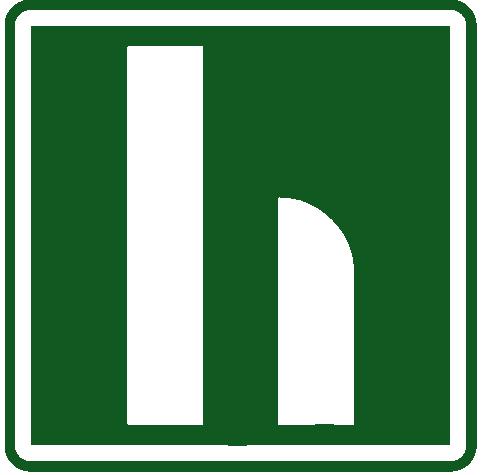
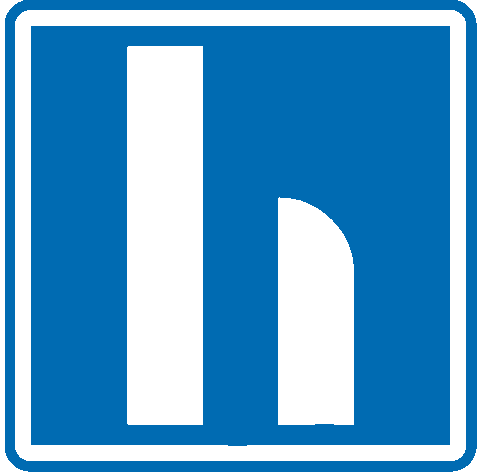
sticky navbar

diff --git a/src/components/Navbar.jsx b/src/components/Navbar.jsx
@@ -1,4 +1,4 @@
-import React, { useState } from 'react';
+import React, { useState, useEffect } from 'react';
 import { Link } from 'react-router-dom';
 import { AppBar, Toolbar, Typography, Box, Button, Menu, MenuItem, IconButton, Drawer, List, ListItem, ListItemText, Divider, useTheme } from '@mui/material';
 import CarRepairIcon from '@mui/icons-material/CarRepair';
@@ -7,13 +7,15 @@ import MenuIcon from '@mui/icons-material/Menu';
 import LoginIcon from '@mui/icons-material/Login';
 import { getAssetPath } from '../utils/assetUtils';
 
-// Gebruik de asset utility functie voor het logo pad
-const logo = getAssetPath('/assets/logo-hofmans.png');
+// Gebruik de asset utility functie voor de logo paden
+const regularLogo = getAssetPath('/assets/logo-hofmans.png');
+const whiteBlueLogo = getAssetPath('/assets/logo-hofmans-wb.png');
 
 function Navbar() {
   const theme = useTheme();
   const [anchorEl, setAnchorEl] = useState(null);
   const [mobileOpen, setMobileOpen] = useState(false);
+  const [scrolled, setScrolled] = useState(false);
 
   const handleClick = (event) => {
     setAnchorEl(event.currentTarget);
@@ -27,32 +29,58 @@ function Navbar() {
     setMobileOpen(!mobileOpen);
   };
 
+  // Scroll event handler
+  useEffect(() => {
+    const handleScroll = () => {
+      const isScrolled = window.scrollY > 50;
+      if (isScrolled !== scrolled) {
+        setScrolled(isScrolled);
+      }
+    };
+
+    window.addEventListener('scroll', handleScroll);
+    return () => {
+      window.removeEventListener('scroll', handleScroll);
+    };
+  }, [scrolled]);
+
   return (
-    <AppBar position="static" sx={{ 
-        background: `${theme.palette.primary.dark}E6`, 
-        backdropFilter: 'blur(10px)', 
-        boxShadow: '0 4px 30px rgba(0, 0, 0, 0.1)', 
-        borderBottom: `1px solid ${theme.palette.common.white}33` 
-      }}>
+    <>
+      <AppBar position="fixed" sx={{ 
+          background: scrolled ? 'white' : `${theme.palette.primary.dark}E6`, 
+          backdropFilter: 'blur(10px)', 
+          boxShadow: scrolled ? '0 4px 20px rgba(0, 0, 0, 0.1)' : '0 4px 30px rgba(0, 0, 0, 0.1)', 
+          borderBottom: scrolled ? `1px solid ${theme.palette.grey[200]}` : `1px solid ${theme.palette.common.white}33`,
+          transition: 'all 0.3s ease-in-out',
+          zIndex: theme.zIndex.drawer + 1
+        }}>
       <Toolbar sx={{ justifyContent: 'space-between', padding: { xs: '0 16px', md: '0 50px' } }}>
         <Link to="/" style={{ textDecoration: 'none', color: 'inherit' }}>
           <Box sx={{ display: 'flex', alignItems: 'center' }}>
-            <img src={logo} alt="Hofmans Automotive Logo" style={{ height: '40px', marginRight: '8px' }} />
-            <Typography variant="h6" noWrap component="div" sx={{ fontWeight: 'bold', color: theme.palette.common.white }}>
+            <img 
+              src={scrolled ? whiteBlueLogo : regularLogo} 
+              alt="Hofmans Automotive Logo" 
+              style={{ 
+                height: '40px', 
+                marginRight: '8px',
+                transition: 'opacity 0.3s ease-in-out' 
+              }} 
+            />
+            <Typography variant="h6" noWrap component="div" sx={{ fontWeight: 'bold', color: scrolled ? theme.palette.primary.dark : theme.palette.common.white, transition: 'color 0.3s ease-in-out' }}>
               Hofmans Automotive
             </Typography>
           </Box>
         </Link>
         {/* Desktop menu */}
         <Box sx={{ display: { xs: 'none', md: 'flex' }, gap: 3 }}>
-          <Button color="primary" component={Link} to="/" sx={{ fontWeight: 'bold', color: theme.palette.common.white, '&:hover': { backgroundColor: `${theme.palette.common.white}1A` } }}>
+          <Button color="primary" component={Link} to="/" sx={{ fontWeight: 'bold', color: scrolled ? theme.palette.primary.dark : theme.palette.common.white, '&:hover': { backgroundColor: scrolled ? `${theme.palette.primary.main}1A` : `${theme.palette.common.white}1A` }, transition: 'color 0.3s ease-in-out' }}>
             Home
           </Button>
           <Box>
             <Button 
               color="primary" 
               onClick={handleClick} 
-              sx={{ fontWeight: 'bold', color: theme.palette.common.white, '&:hover': { backgroundColor: `${theme.palette.common.white}1A` } }}
+              sx={{ fontWeight: 'bold', color: scrolled ? theme.palette.primary.dark : theme.palette.common.white, '&:hover': { backgroundColor: scrolled ? `${theme.palette.primary.main}1A` : `${theme.palette.common.white}1A` }, transition: 'color 0.3s ease-in-out' }}
               endIcon={<ArrowDropDownIcon />}
             >
               Trainingen
@@ -61,7 +89,7 @@ function Navbar() {
               anchorEl={anchorEl}
               open={Boolean(anchorEl)}
               onClose={handleClose}
-              sx={{ '& .MuiPaper-root': { backgroundColor: `${theme.palette.primary.dark}F2`, color: theme.palette.common.white, borderRadius: 2 } }}
+              sx={{ '& .MuiPaper-root': { backgroundColor: scrolled ? 'white' : `${theme.palette.primary.dark}F2`, color: scrolled ? theme.palette.primary.dark : theme.palette.common.white, borderRadius: 2, boxShadow: '0 4px 20px rgba(0, 0, 0, 0.1)' } }}
             >
               <MenuItem onClick={handleClose} component={Link} to="/trainingen" sx={{ '&:hover': { backgroundColor: `${theme.palette.common.white}1A` } }}>
                 Alle Trainingen
@@ -80,7 +108,7 @@ function Navbar() {
               </MenuItem>
             </Menu>
           </Box>
-          <Button color="primary" component={Link} to="/contact" sx={{ fontWeight: 'bold', color: theme.palette.common.white, '&:hover': { backgroundColor: `${theme.palette.common.white}1A` } }}>
+          <Button color="primary" component={Link} to="/contact" sx={{ fontWeight: 'bold', color: scrolled ? theme.palette.primary.dark : theme.palette.common.white, '&:hover': { backgroundColor: scrolled ? `${theme.palette.primary.main}1A` : `${theme.palette.common.white}1A` }, transition: 'color 0.3s ease-in-out' }}>
             Contact
           </Button>
           <Button 
@@ -90,11 +118,12 @@ function Navbar() {
             startIcon={<LoginIcon />}
             sx={{ 
               fontWeight: 'bold', 
-              backgroundColor: `${theme.palette.common.white}26`, 
+              backgroundColor: scrolled ? theme.palette.primary.main : `${theme.palette.common.white}26`, 
               color: theme.palette.common.white, 
               '&:hover': { 
-                backgroundColor: `${theme.palette.common.white}40` 
+                backgroundColor: scrolled ? theme.palette.primary.dark : `${theme.palette.common.white}40` 
               },
+              transition: 'background-color 0.3s ease-in-out',
               borderRadius: '20px',
               padding: '6px 16px'
             }}
@@ -104,7 +133,7 @@ function Navbar() {
         </Box>
         {/* Mobile menu button */}
         <IconButton
-          color="inherit"
+          color={scrolled ? "primary" : "inherit"}
           aria-label="open drawer"
           edge="start"
           onClick={handleDrawerToggle}
@@ -130,7 +159,7 @@ function Navbar() {
           }}
         >
           <Box onClick={handleDrawerToggle} sx={{ textAlign: 'center', p: 2 }}>
-            <img src={logo} alt="Hofmans Automotive Logo" style={{ height: '40px', marginBottom: '10px' }} />
+            <img src={whiteBlueLogo} alt="Hofmans Automotive Logo" style={{ height: '40px', marginBottom: '10px' }} />
             <Typography variant="h6" sx={{ fontWeight: 'bold', mb: 2 }}>
               Hofmans Automotive
             </Typography>
@@ -183,6 +212,9 @@ function Navbar() {
         </Drawer>
       </Toolbar>
     </AppBar>
+    {/* Spacer div to prevent content from hiding behind the fixed navbar */}
+    <div style={{ height: '64px' }} />
+    </>
   );
 }
 
